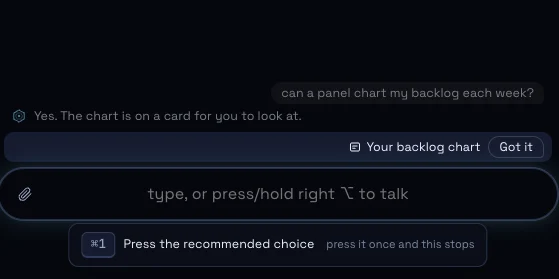
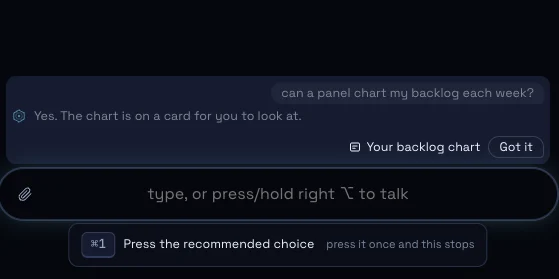
fix(composer): light the whole strip above the message box as one area on hover
One fill now sits behind both rounds with the same padding on every side,
instead of a band behind the hovered round alone, and a press between the
rounds opens the conversation at the newest.

diff --git a/tests/e2e/last-turn.spec.ts b/tests/e2e/last-turn.spec.ts
@@ -537,11 +537,11 @@ test("the conversation holds a card the captain answered, lists it under Cards, 
 // a card's button shows above the message box as one row with the card's
 // name. INF-6623's plan, the captain's Approve and build: every press on the
 // row, the name included, opens the conversation at that round first ("people
-// can open cards from within the conversation UI"), and resting on the row
-// lights the whole round ("highlight the whole area"). Fixture: the
+// can open cards from within the conversation UI"), and resting on the strip
+// lights the whole strip as one area ("highlight the whole area"). Fixture: the
 // conversation scenario's note, answered with Got it. Failure: no row, a reply
 // line under it, the name opening the card, the conversation opening
-// somewhere else, its tile not opening the card, or no fill behind the round.
+// somewhere else, its tile not opening the card, or no one fill behind the strip.
 test("a press of a card's button shows on the strip with the card's name, and every press on the row opens the conversation there", async () => {
   launched = await launchApp({ withMockProvider: true, scenarios: [conversationRounds] });
   const { page } = launched;
@@ -569,7 +569,8 @@ test("a press of a card's button shows on the strip with the card's name, and ev
     await expect(conversation(page)).toHaveCount(0);
     await expect(name).toBeVisible();
   };
-  const fill = () => row.evaluate((round) => getComputedStyle(round, "::before").opacity);
+  const strip = page.locator("[data-last-turn]");
+  const fill = () => strip.evaluate((lane) => getComputedStyle(lane, "::before").opacity);
 
   await test.step("the press is the newest round: the card's name, then Got it outlined, with no reply line", async () => {
     await expect(row).toHaveAttribute("data-card-round", "choice");
@@ -581,13 +582,20 @@ test("a press of a card's button shows on the strip with the card's name, and ev
     await expect(bubbleWords(yourBubble(page, "older"))).toHaveText(BACKLOG_ASK);
   });
 
-  await test.step("resting on the row lights the whole round, not one line", async () => {
+  await test.step("resting anywhere on the strip lights the whole strip as one area", async () => {
     await page.mouse.move(0, 0);
     await expect.poll(fill).toBe("0");
-    await yourBubble(page).hover();
-    await expect.poll(fill).toBe("1");
-    await name.hover();
-    await expect.poll(fill).toBe("1");
+    for (const part of [yourBubble(page), name, bubbleWords(yourBubble(page, "older"))]) {
+      await part.hover();
+      await expect.poll(fill).toBe("1");
+    }
+    // One shape around both rounds, the same 6 px past the strip on every side.
+    expect(
+      await strip.evaluate((lane) => {
+        const style = getComputedStyle(lane, "::before");
+        return [style.top, style.right, style.bottom, style.left];
+      }),
+    ).toEqual(["-6px", "-6px", "-6px", "-6px"]);
     await page.mouse.move(0, 0);
     await expect.poll(fill).toBe("0");
   });

diff --git a/src/renderer/src/app/lastTurn.css b/src/renderer/src/app/lastTurn.css
@@ -11,9 +11,10 @@
  * whole word with an ellipsis (LastTurn's useWholeWords narrows .words to
  * it). The captain's words are plain text: no underline or focus ring. A
  * press anywhere on a round opens the conversation there, so the round
- * takes the pointer, and resting on it or focusing its button lays one
- * --bg-3 fill behind the whole round (INF-6623's plan, the captain's words:
- * "highlight the whole area"). A reply line, and a card round's name, is a
+ * takes the pointer, and resting on the strip or focusing its button lays
+ * one --bg-3 fill behind the whole strip (INF-6623's plan, the captain's
+ * words: "highlight the whole area"); a press between rounds opens the
+ * conversation at the newest. A reply line, and a card round's name, is a
  * button (docs/composer.md "The conversation"): a Tab stop and the focus
  * ring, and no other chrome, so it still reads as a line of type.
  *
@@ -29,6 +30,7 @@
 
 [data-last-turn] {
   position: relative;
+  isolation: isolate;
   display: flex;
   flex-direction: column;
   justify-content: flex-end;
@@ -44,6 +46,7 @@
 [data-last-turn][data-last-turn-fade="shown"],
 [data-last-turn][data-last-turn-fade="fading"] {
   pointer-events: auto;
+  cursor: pointer;
 }
 /* The round a new message pushes out leaves from where it stood. */
 [data-last-turn] > [data-outgoing] {
@@ -54,7 +57,6 @@
 
 [data-last-turn-pair] {
   position: relative;
-  isolation: isolate;
   display: flex;
   flex-direction: column;
   gap: 2px;
@@ -69,22 +71,27 @@
     transform: translateY(6px);
   }
 }
-/* The whole round lights as one area while it is read, so a press reads as
-   the round's, not one line's. The fill reaches 4 px past the rows, inside
-   the 10 px between rounds and the strip's 14 px side margin, and moves
-   nothing. */
-[data-last-turn-pair]::before {
+/* The whole strip lights as one area while it is read, so a press reads as
+   the strip's, not one line's (the captain's "highlight the whole area"):
+   one fill 6 px past the strip on every side, inside its 14 px side margin
+   and 10 px above the input, moving nothing. Once the older round has
+   dissolved, its reserved room stays empty, so the fill covers the newest
+   round alone. */
+[data-last-turn]::before,
+[data-last-turn][data-last-turn-fade="hidden"] [data-last-turn-pair]::before {
   content: "";
   position: absolute;
-  inset: -4px -8px;
+  inset: -6px;
   z-index: -1;
   border-radius: var(--radius-m);
   background: var(--bg-3);
   opacity: 0;
+  pointer-events: none;
   transition: opacity var(--dur-fast) var(--ease-out);
 }
-[data-last-turn-pair]:hover::before,
-[data-last-turn-pair]:has(button:focus)::before {
+[data-last-turn]:not([data-last-turn-fade="hidden"]):is(:hover, :has(button:focus))::before,
+[data-last-turn][data-last-turn-fade="hidden"]
+  [data-last-turn-pair]:is(:hover, :has(button:focus))::before {
   opacity: 1;
 }
 /* The older round, at the strength the captain chose. */

diff --git a/src/renderer/src/app/LastTurn.tsx b/src/renderer/src/app/LastTurn.tsx
@@ -667,6 +667,15 @@ export function LastTurn() {
       // The rounds' own heights and the gaps between them; the slot hangs from the input's top edge.
       style={{ height: lane - LAST_TURN_GAP }}
       ref={rootRef}
+      onClick={(event) => {
+        // A press between rounds, inside the lit strip, opens the newest; a round opens its own.
+        const target = event.target as Element;
+        if (target.closest("[data-last-turn-pair]") || hidden) return;
+        const selection = document.getSelection();
+        if (selection && !selection.isCollapsed) return;
+        const newest = rounds.at(-1);
+        if (newest) useShellStore.getState().openConversation(opensAt(newest.strip, false));
+      }}
       onPointerEnter={() => setHovering(true)}
       onPointerLeave={() => setHovering(false)}
       onFocusCapture={() => setFocused(true)}

diff --git a/docs/composer.md b/docs/composer.md
@@ -127,7 +127,9 @@ A round is one thing the captain did and what came back: a message and the reply
   The captain's words sit on the right in a soft grey bubble (`--fg-1` mixed at 8%, corners 11, 11, 4 and 11 px, padding 2 px by 10 px), `--text-sm` in `--fg-1` on a 22 px row, at most 75% of the width; a message that was only pictures reads "A picture".
   The first mate's reply sits 2 px below on the left, plain `--text-sm` in `--fg-1` on a 20 px row, after the first mate's mark, the app's 14 px hexagon in `--accent`, 8 px before the words, at most 80% of the width.
   Newest ordinary words rest at 75% `--fg-2` mixed with 25% `--fg-3`, and the newest bubble rests at 4% `--fg-1` over transparent (INF-1968, the captain’s C selection).
-  Hovering a round or focusing its button lights only that round, never its sibling, and lays one `--bg-3` fill with `--radius-m` corners behind the whole round, 4 px past its rows and 8 px past its sides, so a press reads as the round's (INF-6623's plan, the captain's words: "highlight the whole area"); the fill comes and goes over `--dur-fast` and moves nothing.
+  Hovering a round or focusing its button lights only that round's words, never its sibling's.
+  Resting anywhere on the strip or focusing its button lays one `--bg-3` fill with `--radius-m` corners behind the whole strip, 6 px past it on every side, so a press reads as the strip's (INF-6623's plan, the captain's words: "highlight the whole area"); once the older round has dissolved, the fill covers the newest round alone, and it comes and goes over `--dur-fast` and moves nothing.
+  A press between the rounds, inside that fill, opens the conversation at the newest round.
   The newest round restores ordinary words to `--fg-1` and its bubble to 8% immediately; leaving and blurring restores its quiet treatment, with no animation or timer.
   The older round keeps its colors and lifts from 50% to full opacity while hovered or focused, returning to 50% afterwards.
   The mark stays cyan (`--accent`) in both states, as the captain requested; composer focus alone does not brighten either round.

diff --git a/.claude/skills/infinitary-design/components/voice/VoiceInput.prompt.md b/.claude/skills/infinitary-design/components/voice/VoiceInput.prompt.md
@@ -47,7 +47,7 @@ A round is the captain's words and the reply under them; the newest round sits n
 The captain's words sit on the right in a soft grey bubble: `--fg-1` mixed at 8%, corners 11, 11, 4 and 11 px, padding 2 px by 10 px, `--text-sm` in `--fg-1` on a 22 px row, at most 75% of the width.
 2 px below, the reply sits on the left as plain `--text-sm` in `--fg-1` on a 20 px row, at most 80% of the width, after the first mate's mark: the app's 14 px hexagon in `--accent`, 8 px before the words.
 On desktop, newest ordinary words rest at 75% `--fg-2` mixed with 25% `--fg-3`, with a 4% `--fg-1` bubble over transparent (INF-1968’s C, the captain’s Approve and build).
-Hovering a round or focusing its button lights only that round, never its sibling, and lays one `--bg-3` fill with `--radius-m` corners behind the whole round, 4 px past its rows and 8 px past its sides; composer focus alone brightens neither.
+Hovering a round or focusing its button lights only that round's words, never its sibling's; resting anywhere on the strip lays one `--bg-3` fill with `--radius-m` corners behind the whole strip, 6 px past it on every side (the newest round alone once the older has dissolved); composer focus alone brightens neither.
 The newest round immediately restores ordinary words to `--fg-1` and the bubble to 8%, with no animation or timer; leaving and blurring restores rest.
 The older round keeps its colors and lifts from 50% to full opacity while hovered or focused, returning to 50% afterwards.
 The captain’s written-in choice keeps the mark cyan (`--accent`) at rest and while reading; the working mark, Working… and problem colors stay unchanged.
